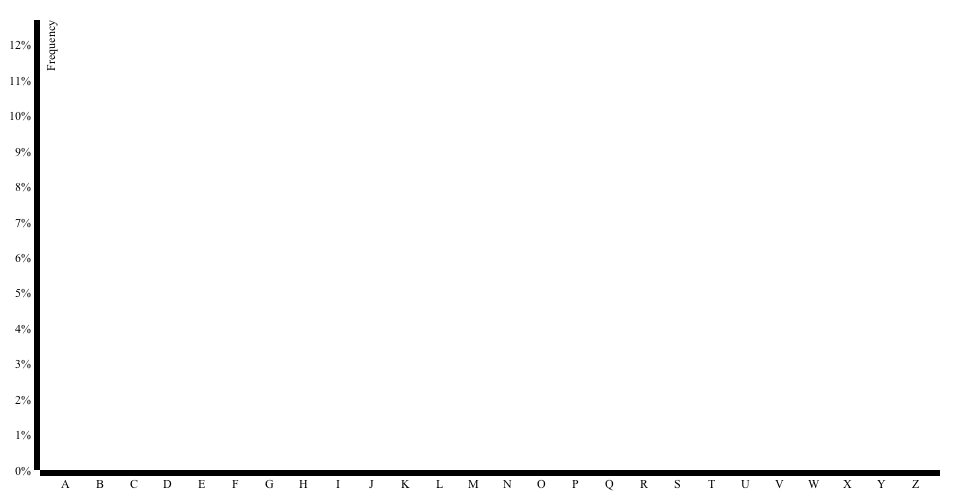
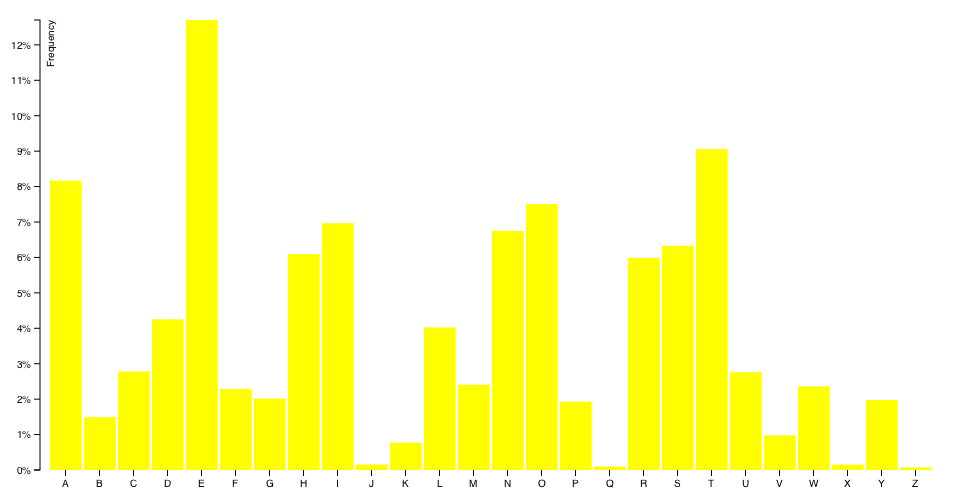
Fixed it (for now) CSS needs to be inlined, and is done with juice2

Changed region(s): [[0.0, 0.03, 1.0, 0.99]]

diff --git a/index.js b/index.js
@@ -1,6 +1,7 @@
 var jsdom = require('jsdom');
 var fs = require('fs');
 var gm = require('gm');
+var juice = require('juice2');
 var Readable = require('stream').Readable;
 
 var chart = require('./bar-chart');
@@ -21,18 +22,13 @@ jsdom.env({
     svgAttrs.push('version="1.1"');
 
     var svg = [
-      svgPreamble,
       '<svg ' + svgAttrs.join(' ') + '>',
-        '<defs>',
-          '<style type="text/css"><![CDATA[',
-            css,
-          ']]></style>',
-        '</defs>',
-        '<svg>',
-          el.innerHTML,
-        '</svg>',
+        el.innerHTML,
       '</svg>'
     ].join('\n');
+
+    svg = svgPreamble + '\n' + juice.inlineContent(svg, css).replace(/<\/?(html|body)>/g, '');
+    svg = svg.trim();
 
     console.log(svg);
     svgStream.push(svg);
@@ -41,6 +37,7 @@ jsdom.env({
     gm(svgStream, 'chart.svg')
       .options({ imageMagick: true })
       .write('chart.png', function(pngErr) {
+        // console.log(pngErr ? 'oops: ' + pngErr : 'done');
         process.exit();
       });
   }

diff --git a/styles.css b/styles.css
@@ -3,7 +3,8 @@
 }
 
 .axis {
-  font: 10px 'Helvetica';
+  font-size: 10px;
+  font-family: 'Helvetica';
 }
 
 .axis path,
